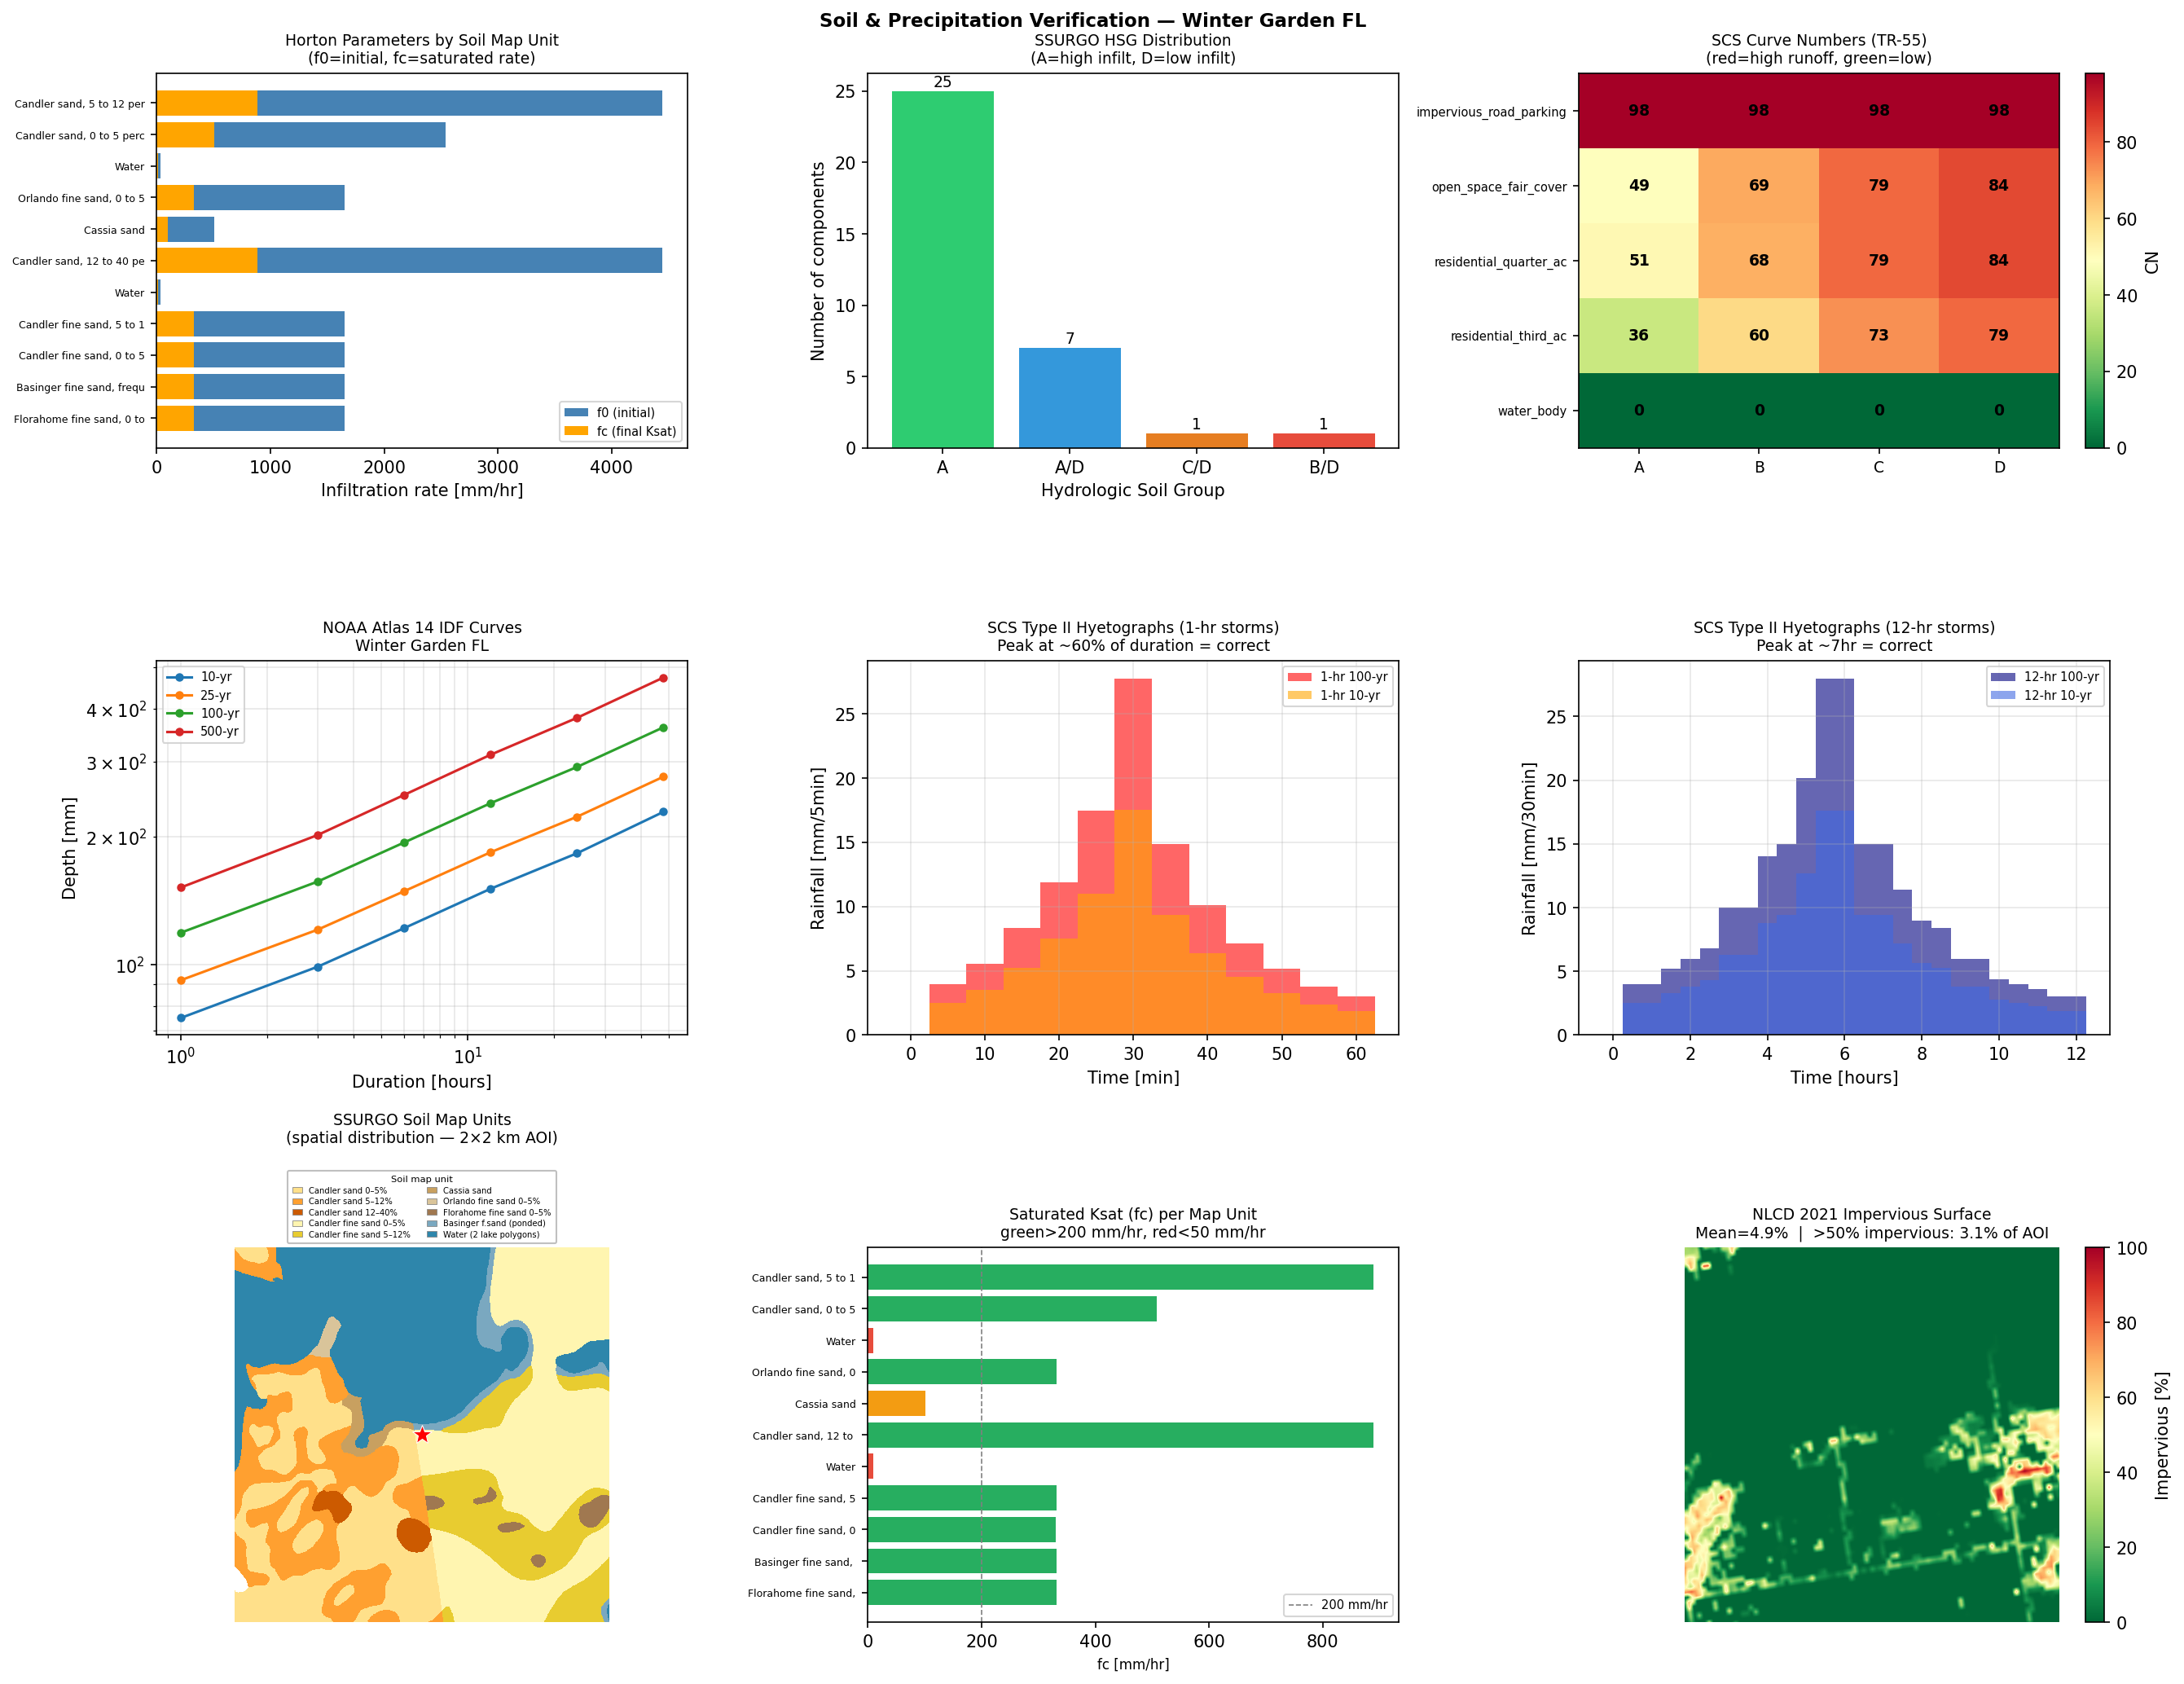
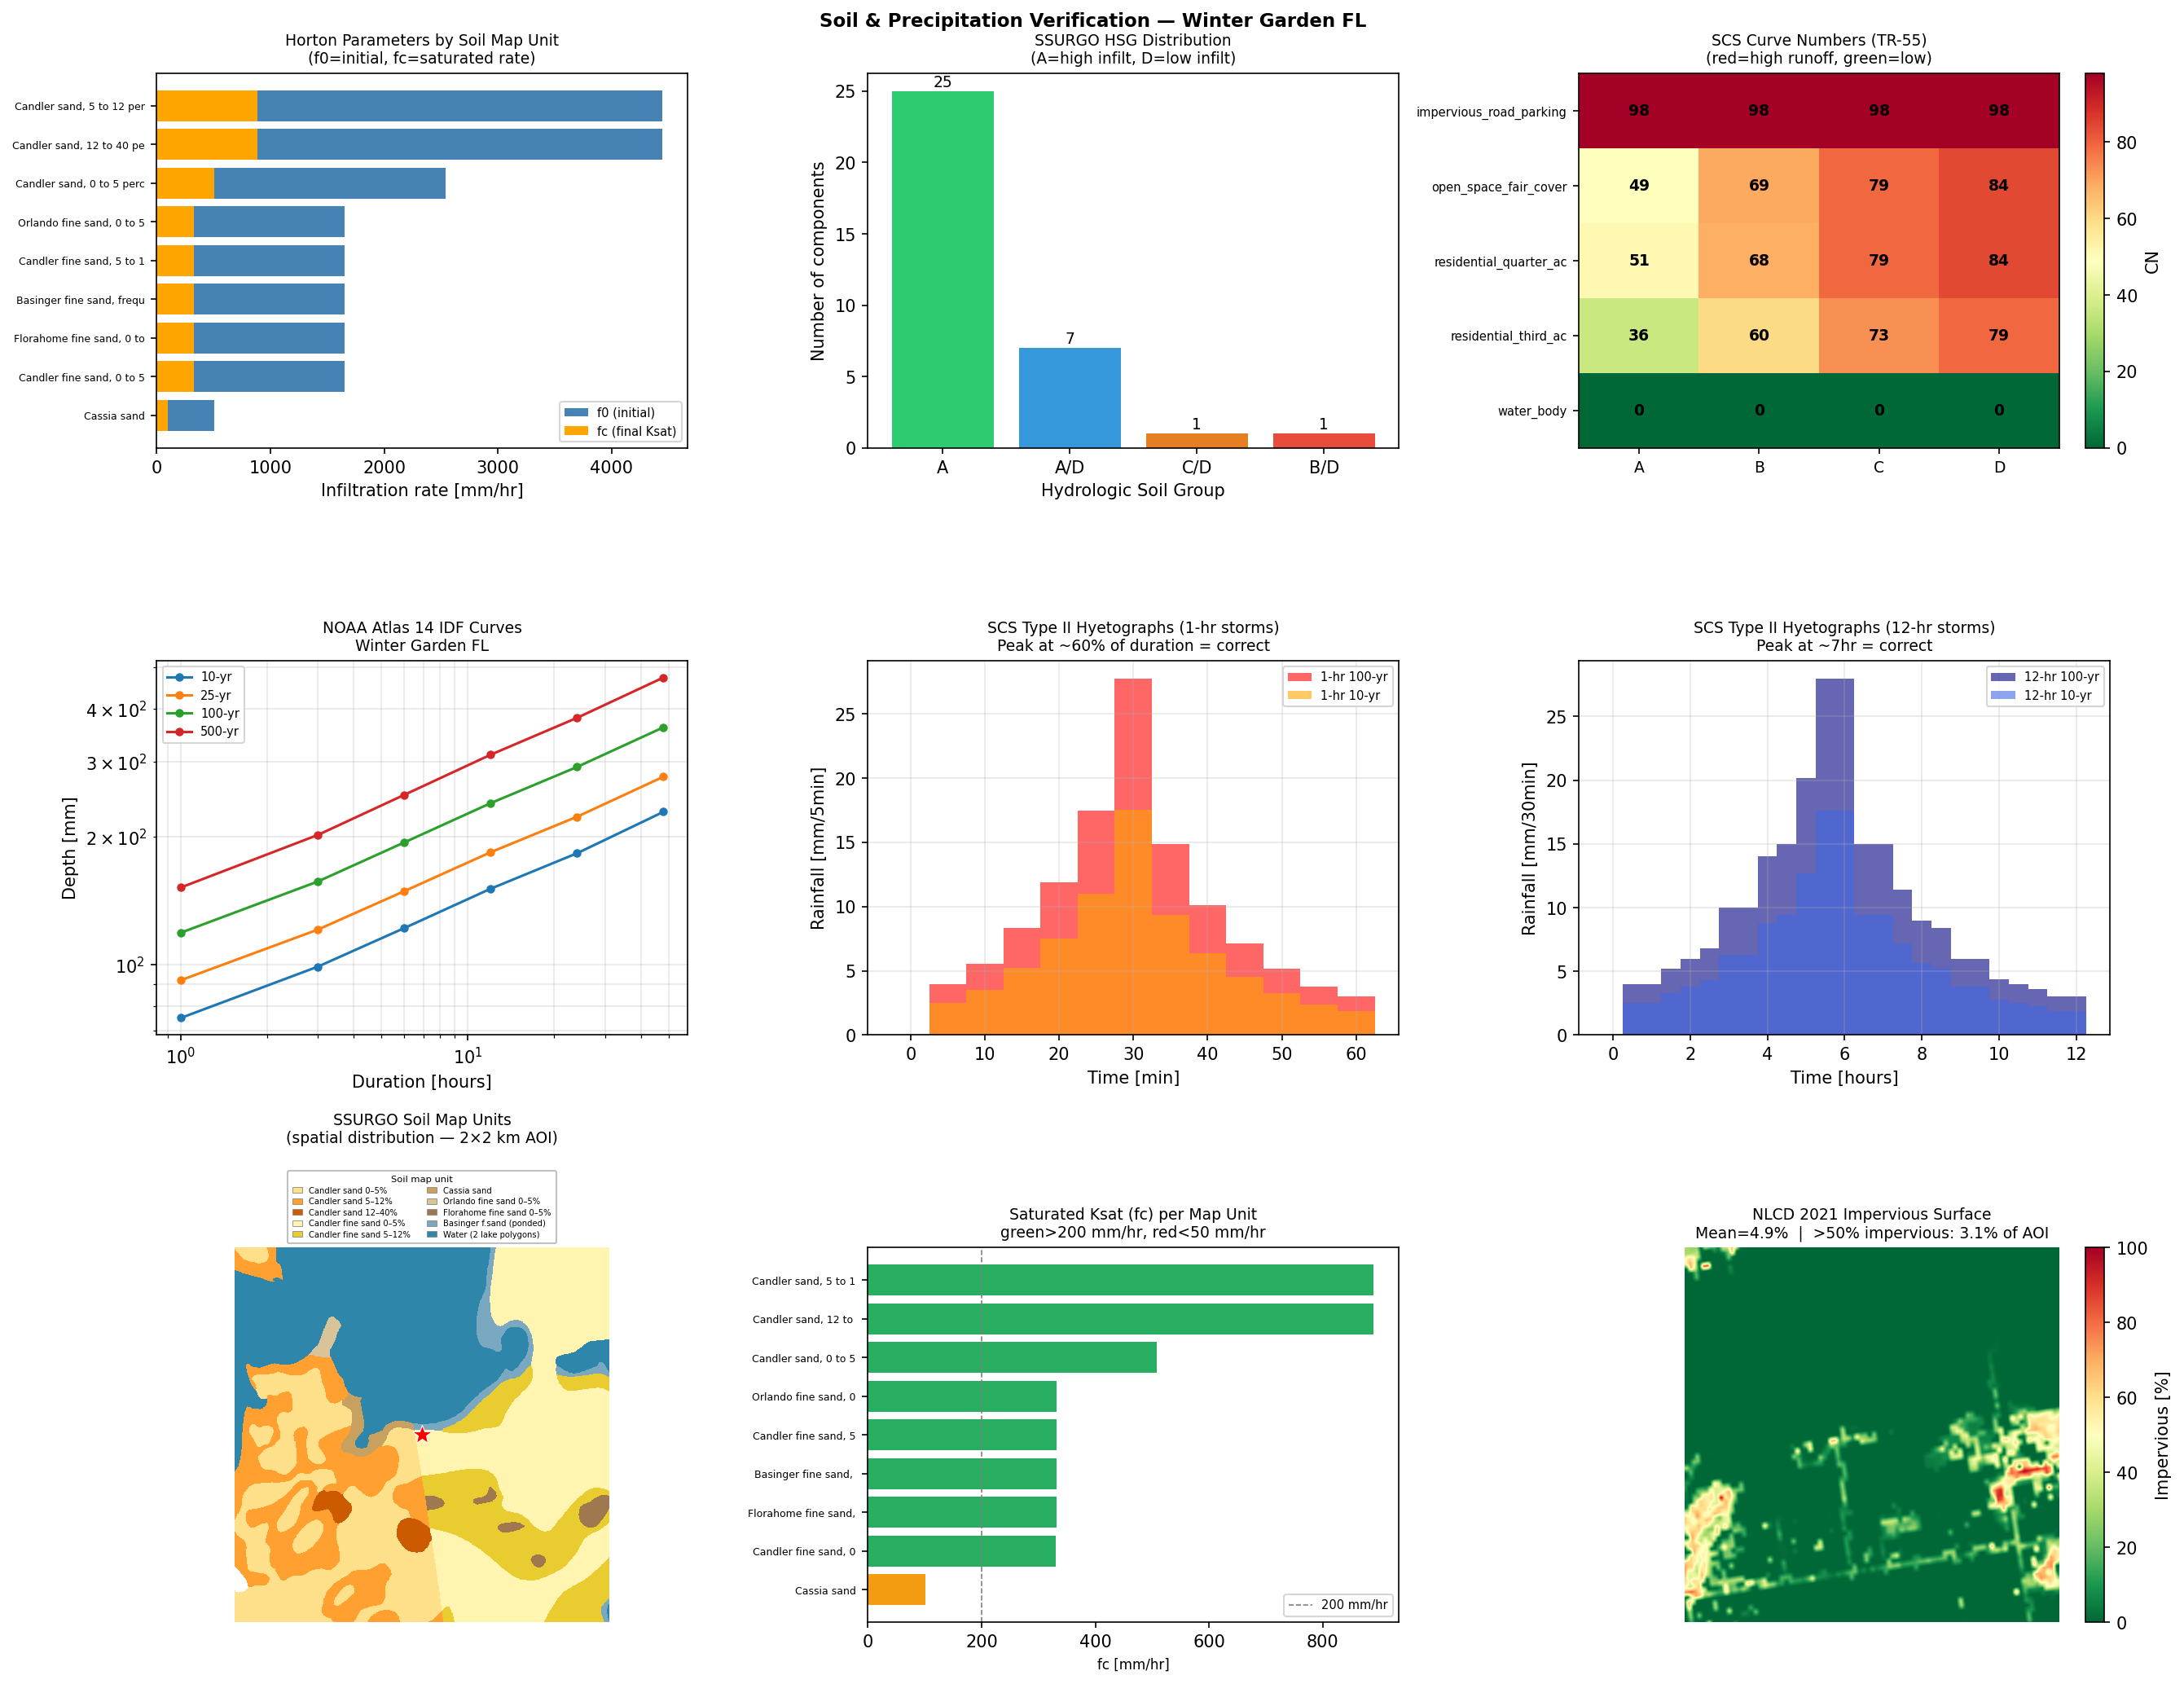
Update verification dashboard: improved DEM and soil visualizations

Changed region(s): [[0.0, 0.0619, 0.3096, 0.2787], [0.3405, 0.7431, 0.6501, 0.9598]]

diff --git a/models/flood_hydrology/verify_all.py b/models/flood_hydrology/verify_all.py
@@ -176,15 +176,16 @@ def verify_dem():
     ax3 = fig.add_subplot(gs[0, 2])
     if acc_arr is not None:
         log_acc = np.log1p(acc_arr.copy().astype(np.float32))
-        B = 100
+        B = 3
         log_acc[:B, :] = np.nan; log_acc[-B:, :] = np.nan
         log_acc[:, :B] = np.nan; log_acc[:, -B:] = np.nan
         # Clip to 98th percentile so boundary-artifact outliers don't dominate colorscale
         pct98 = float(np.nanpercentile(log_acc, 98))
         log_acc = np.clip(log_acc, 0, pct98)
-        ax3.imshow(log_acc, cmap="Blues", vmin=0, vmax=pct98)
+        cmap_acc = plt.colormaps["Blues"].copy(); cmap_acc.set_bad("whitesmoke")
+        ax3.imshow(log_acc, cmap=cmap_acc, vmin=0, vmax=pct98)
         ax3.set_title(f"Flow Accumulation (log)\nmax={int(np.nanmax(acc_arr)):,} cells (land only)\n"
-                      f"(lake body masked; 100-px border + 98th-pct clip)", fontsize=7)
+                      f"(lake body masked; 98th-pct clip)", fontsize=7)
     else:
         ax3.text(0.5, 0.5, "flow_acc.tif\nnot found", ha="center", va="center", transform=ax3.transAxes)
 
@@ -201,7 +202,7 @@ def verify_dem():
     ax5 = fig.add_subplot(gs[1, 0])
     if hand_arr is not None and len(hand_arr[np.isfinite(hand_arr)]) > 1000:
         hand_clip = hand_arr.copy().astype(np.float32)
-        B = 100
+        B = 3
         hand_clip[:B, :] = np.nan; hand_clip[-B:, :] = np.nan
         hand_clip[:, :B] = np.nan; hand_clip[:, -B:] = np.nan
         # Clip to 95th percentile so extreme outlier cells don't flatten the scale
@@ -209,11 +210,12 @@ def verify_dem():
         pct95_h = float(np.percentile(valid_h, 95)) if len(valid_h) > 0 else 10.0
         vmax_h  = min(pct95_h, 10.0)
         hand_clip = np.clip(hand_clip, 0, vmax_h)
-        im5 = ax5.imshow(hand_clip, cmap="RdYlGn_r", vmin=0, vmax=vmax_h)
+        cmap_hand = plt.colormaps["RdYlGn_r"].copy(); cmap_hand.set_bad("whitesmoke")
+        im5 = ax5.imshow(hand_clip, cmap=cmap_hand, vmin=0, vmax=vmax_h)
         cb5 = plt.colorbar(im5, ax=ax5, fraction=0.046, pad=0.08)
         cb5.set_label("HAND [m]", labelpad=8)
         ax5.set_title(f"HAND: Height Above Drainage\n(red=flood-prone, vmax={vmax_h:.1f}m)\n"
-                      f"(100-px border + 95th-pct clip — D8 artifact removed)", fontsize=7)
+                      f"(95th-pct clip)", fontsize=7)
     else:
         ax5.text(0.5, 0.5, "HAND computation\nshowed NaN — pysheds\nCRS issue (see notes)",
                  ha="center", va="center", transform=ax5.transAxes, fontsize=8)
@@ -403,7 +405,14 @@ def verify_soil_precip():
                f"{set(hsg_vals)}", "Orange County FL is mostly sandy")
 
         ax = axes[0, 0]
-        mu_names = [v.get("muname", k)[:25] for k, v in soil.items()]
+        # Exclude Water map units (no meaningful infiltration params); sort by fc ascending
+        soil_land = {k: v for k, v in soil.items()
+                     if "water" not in v.get("muname", "").lower()}
+        soil_land = dict(sorted(soil_land.items(), key=lambda x: x[1]["fc_mm_hr"]))
+        mu_names = [v.get("muname", k)[:25] for k, v in soil_land.items()]
+        f0_vals  = [v["f0_mm_hr"] for v in soil_land.values()]
+        fc_vals  = [v["fc_mm_hr"] for v in soil_land.values()]
+        hsg_vals = [v["hsg"]      for v in soil_land.values()]
         all_fc_same = len(set(round(v, 1) for v in fc_vals)) == 1
         ax.barh(range(len(f0_vals)), f0_vals, color="steelblue", label="f0 (initial)")
         ax.barh(range(len(fc_vals)), fc_vals, color="orange", label="fc (final Ksat)")
@@ -643,8 +652,12 @@ def verify_soil_precip():
     if os.path.exists(soil_path):
         _soil = json.load(open(soil_path)) if not 'soil' in dir() else \
                 {k: v for k, v in soil.items()}
-        short_names = [v.get("muname","")[:20] for v in _soil.values()]
-        fc_v = [v["fc_mm_hr"] for v in _soil.values()]
+        # Exclude Water units; sort by fc ascending
+        _soil_land = {k: v for k, v in _soil.items()
+                      if "water" not in v.get("muname", "").lower()}
+        _soil_land = dict(sorted(_soil_land.items(), key=lambda x: x[1]["fc_mm_hr"]))
+        short_names = [v.get("muname","")[:20] for v in _soil_land.values()]
+        fc_v = [v["fc_mm_hr"] for v in _soil_land.values()]
         colors = ["#e74c3c" if v < 50 else "#f39c12" if v < 200 else "#27ae60" for v in fc_v]
         ax2.barh(range(len(fc_v)), fc_v, color=colors)
         ax2.set_yticks(range(len(short_names))); ax2.set_yticklabels(short_names, fontsize=6)